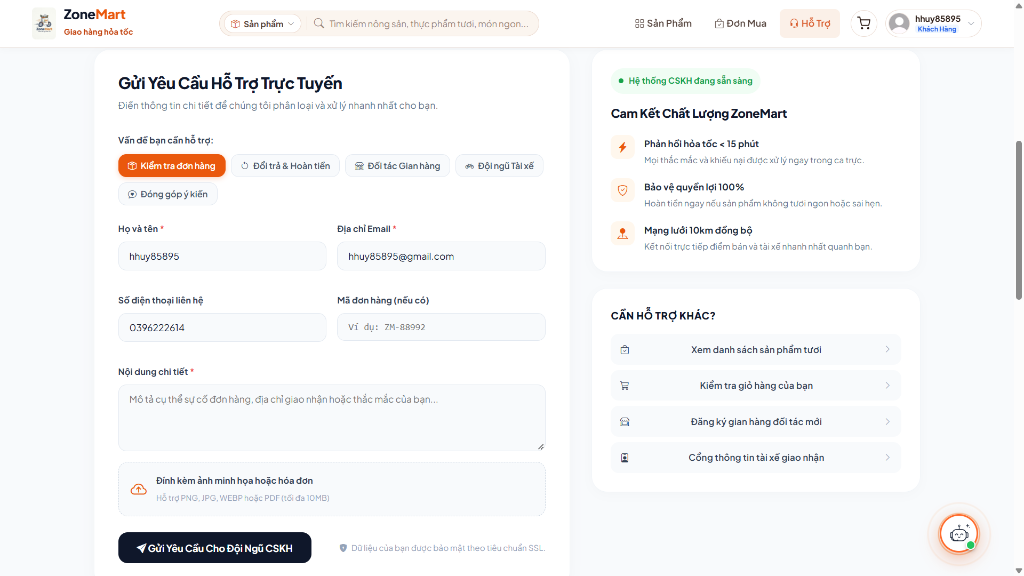
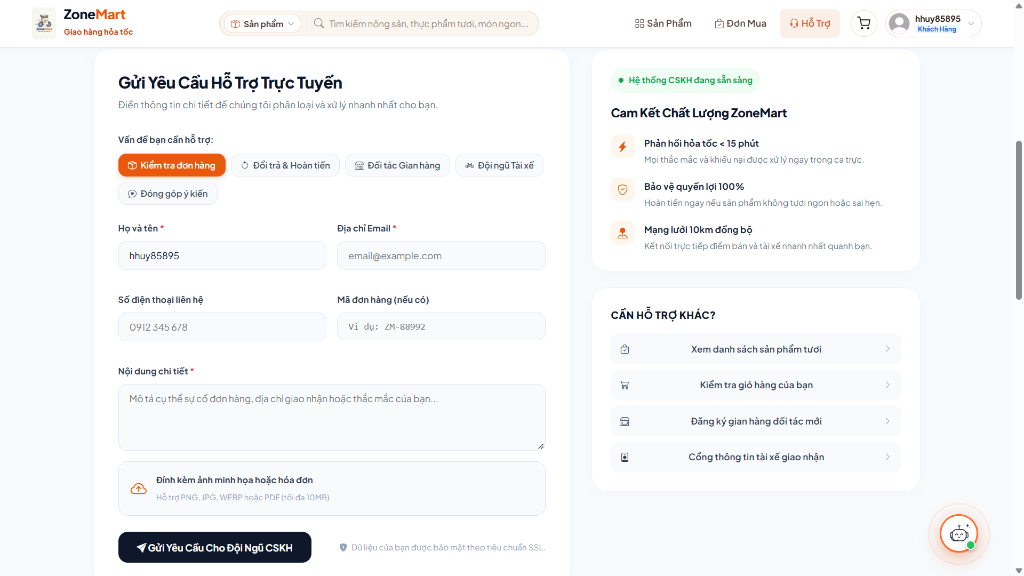
docs(readme): cap nhat anh ho tro moi va link repo chinh thuc

diff --git a/README.md b/README.md
@@ -75,7 +75,7 @@ sequenceDiagram
 
 ```bash
 # 1. Clone repository
-git clone https://github.com/your-username/ZoneMart.git
+git clone https://github.com/HoangHuy206/ZoneMart.git
 cd ZoneMart
 
 # 2. Khởi chạy nhanh toàn bộ hệ thống bằng Docker
